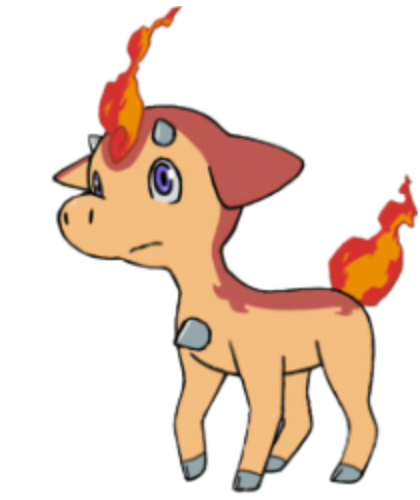
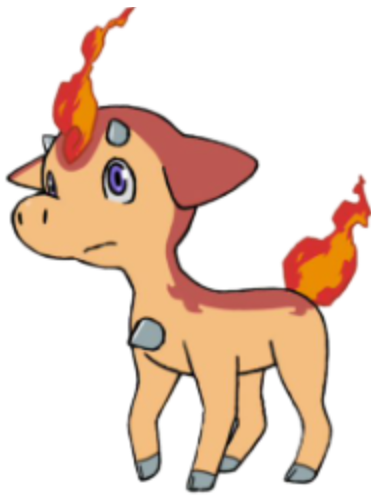
modified

Changed region(s): [[0.0, 0.0, 1.0, 0.99]]

diff --git a/index.html b/index.html
@@ -7,15 +7,97 @@
     <link rel="preconnect" href="https://fonts.gstatic.com" crossorigin>
     <link href="https://fonts.googleapis.com/css2?family=Oxanium:wght@300;400;700&display=swap" rel="stylesheet">
     <link rel="icon" href="https://res.cloudinary.com/dmm3wcupr/image/upload/v1687730239/pokemon/favicon_liwyoi.png">
-    <link rel="stylesheet" href="style.css">
     <link rel="stylesheet" href="https://fonts.googleapis.com/css2?family=Material+Symbols+Outlined:opsz,wght,FILL,GRAD@48,400,0,0" />
     <title>Pokedex</title>
+    <style>
+        *{
+    margin: 0;
+    padding: 0;
+    box-sizing: border-box;
+    font-family: 'Oxanium', cursive;
+}
+body{
+    text-align: center;
+    background: linear-gradient(to bottom, #6ab7f5, #fff);
+    min-height: 100vh;
+}
+main{
+    display: inline-block;
+    margin-top: 2%;
+    padding: 15px;
+    position: relative;
+}
+.pokedex {
+    width: 100%;
+    max-width: 425px;
+}
+.pokemon-image{
+    position: absolute;
+    bottom: 55%;
+    left: 50%;
+    transform: translate(-63%, 20%);
+    height: 18%;
+}
+.pokemon-data{
+    position: absolute;
+    bottom: 40.5%;
+    right: 27%;
+    font-weight: 600;
+    font-size: clamp(8px, 5vw, 25px);
+    color: #aaa;
+}
+.pkmn-name{
+    color: #3a444d;
+}
+.form{
+    position: absolute;
+    width: 67.5%;
+    bottom: 28%;
+    right: 20.5%;
+}
+.input-search{
+    width: 100%;
+    padding: 4%;
+    outline: none;
+    border: 2px solid #333;
+    border-radius: 5px;
+    font-weight: 700;
+    color: #3a444d;
+    font-size: clamp(8px, 5vw, 1rem);
+    box-shadow: -3px 4px 0 #888, -5px 7px 0 #333;
+}
+.buttons{
+    position: absolute;
+    bottom: 10%;
+    left: 50%;
+    transform: translate(-57%, 0);
+    width: 65%;
+    display: flex;
+    gap: 10px;
+}
+.button{
+    padding: 4%;
+    width: 50%;
+    outline: none;
+    border: 2px solid #333;
+    border-radius: 5px;
+    color: #fff;
+    cursor: pointer;
+    font-size: clamp(8px, 5vw, 1rem);
+    box-shadow: -3px 4px 0 #222, -5px 7px 0 #000;
+    background-color: #444;
+}
+.button:active{
+    box-shadow: inset -4px 4px 0 #222;
+    font-size: 0.9rem;
+}
+    </style>
 </head>
 <body>
     <main>
         <img src="https://res.cloudinary.com/dmm3wcupr/image/upload/v1687735050/pokemon/pokemons/001_ps3twt.png" alt="pokemon" class="pokemon-image">
         <h1 class="pokemon-data">
-            <span class="pkmn-number">1</span> -
+            <span class="pkmn-number"></span> -
             <span class="pkmn-name">Bicho</span>
         </h1>
         <form class="form">
@@ -27,6 +109,78 @@
         </div>
         <img src="https://res.cloudinary.com/dmm3wcupr/image/upload/v1687730233/pokemon/pokedex_hawvwe.png" alt="pokedex" class="pokedex">
     </main>
-    <script src="script.js"></script>
+    <script>
+        const pokemon = [
+            {
+                id: 1,
+                name: "Bicho",
+                img: "https://res.cloudinary.com/dmm3wcupr/image/upload/v1687735050/pokemon/pokemons/001_ps3twt.png"
+            },
+            {
+                id: 2,
+                name: "Bichano",
+                img: "https://res.cloudinary.com/dmm3wcupr/image/upload/v1687735050/pokemon/pokemons/002_aux90m.png"
+            },
+            {
+                id: 3,
+                name: "Bode",
+                img: "https://res.cloudinary.com/dmm3wcupr/image/upload/v1687737274/pokemon/pokemons/004_k70mvh.png"
+            },
+            {
+                id: 4,
+                name: "Bodão",
+                img: "https://res.cloudinary.com/dmm3wcupr/image/upload/v1687735050/pokemon/pokemons/005_s3clda.png"
+            },
+            {
+                id: 5,
+                name: "Siri",
+                img: "https://res.cloudinary.com/dmm3wcupr/image/upload/v1687735051/pokemon/pokemons/007_g8qiad.png"
+            },
+            {   
+                id: 6,
+                name: "Super Siri",
+                img: "https://res.cloudinary.com/dmm3wcupr/image/upload/v1687735050/pokemon/pokemons/008_hpgnx1.png"
+            }
+        ];
+
+            const pokeImg = document.getElementsByClassName("pokemon-image")[0];
+            const pokeNum = document.getElementsByClassName("pkmn-number")[0];
+            const pokeName = document.getElementsByClassName("pkmn-name")[0];
+
+            const prevBtn = document.getElementsByClassName("prev")[0];
+            const nextBtn = document.getElementsByClassName("next")[0];
+
+            let currentItem = 0;
+
+            window.addEventListener("DOMContentLoaded", function(){
+                const item = pokemon[currentItem];
+                pokeImg.src = item.img;
+                pokeName.textContent = item.name;
+                pokeNum.innerHTML = item.id;
+            });
+
+            function showPkmn(pkmn){
+                const item = pokemon[pkmn];
+                pokeImg.src = item.img;
+                pokeName.textContent = item.name;
+                pokeNum.innerHTML = item.id;
+            }
+
+            nextBtn.addEventListener("click", function(){
+                currentItem++;
+                if (currentItem > pokemon.length - 1){
+                    currentItem = 0;
+                }
+                showPkmn(currentItem);
+            });
+
+            prevBtn.addEventListener("click", function(){
+                currentItem--;
+                if (currentItem < 0){
+                    currentItem = pokemon.length - 1;
+                }
+                showPkmn(currentItem);
+            });
+    </script>
 </body>
 </html>

diff --git a/script.js b/script.js
@@ -1,0 +1,23 @@
+const pokemon = [
+    {
+        id: "1",
+        name: "Bicho",
+        img: "https://res.cloudinary.com/dmm3wcupr/image/upload/v1687735050/pokemon/pokemons/001_ps3twt.png"
+    },
+    {
+        id: "2",
+        name: "Bichano",
+        img: "https://res.cloudinary.com/dmm3wcupr/image/upload/v1687735050/pokemon/pokemons/002_aux90m.png"
+    }
+];
+
+const prevBtn = document.getElementsByClassName("prev")[0];
+const nextBtn = document.getElementsByClassName("next")[0];
+
+prevBtn.addEventListener("click", function(){
+    
+});
+
+nextBtn.addEventListener("click", function(){
+    
+})
